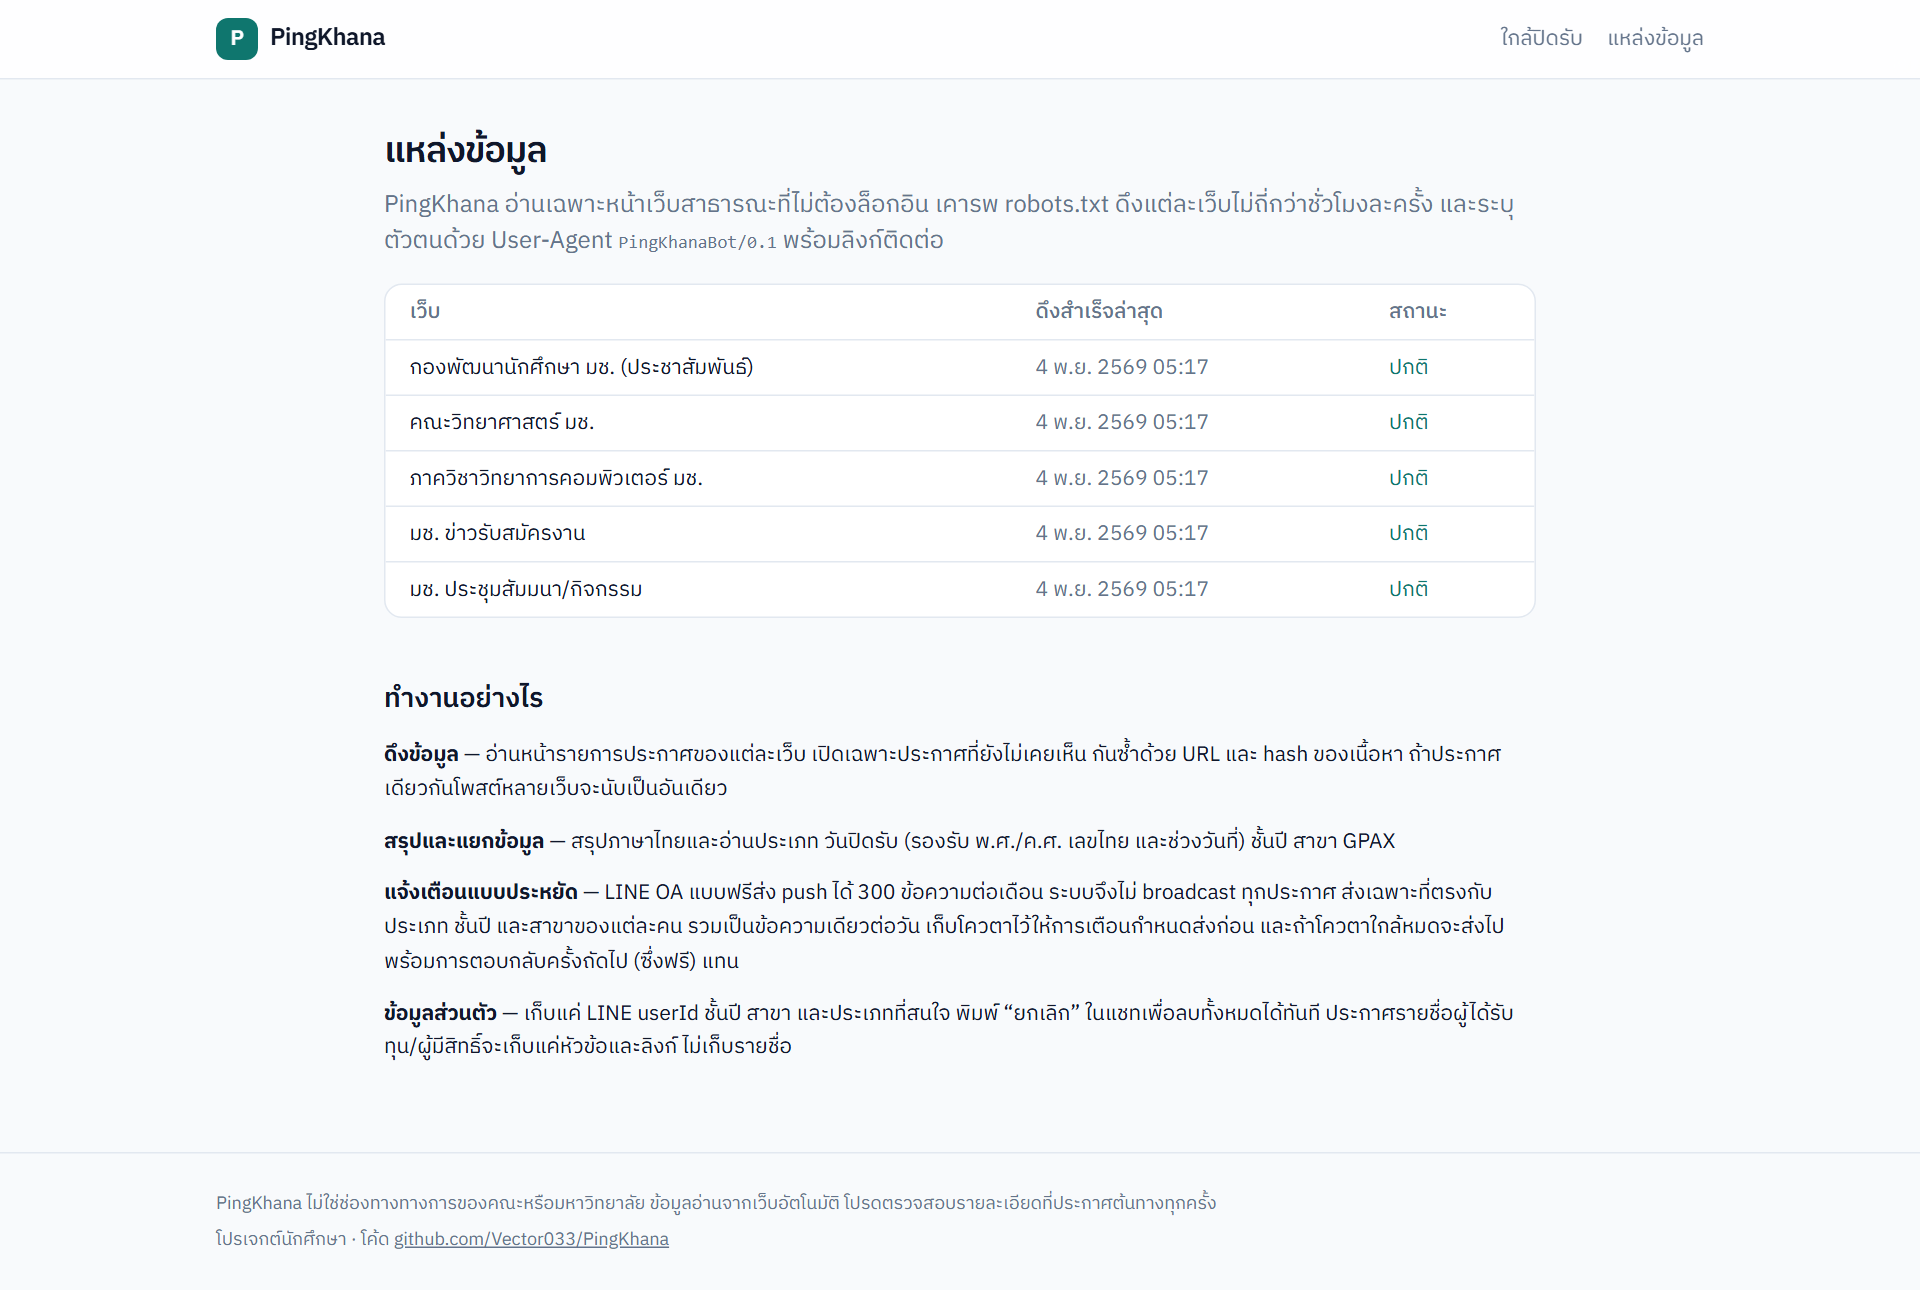
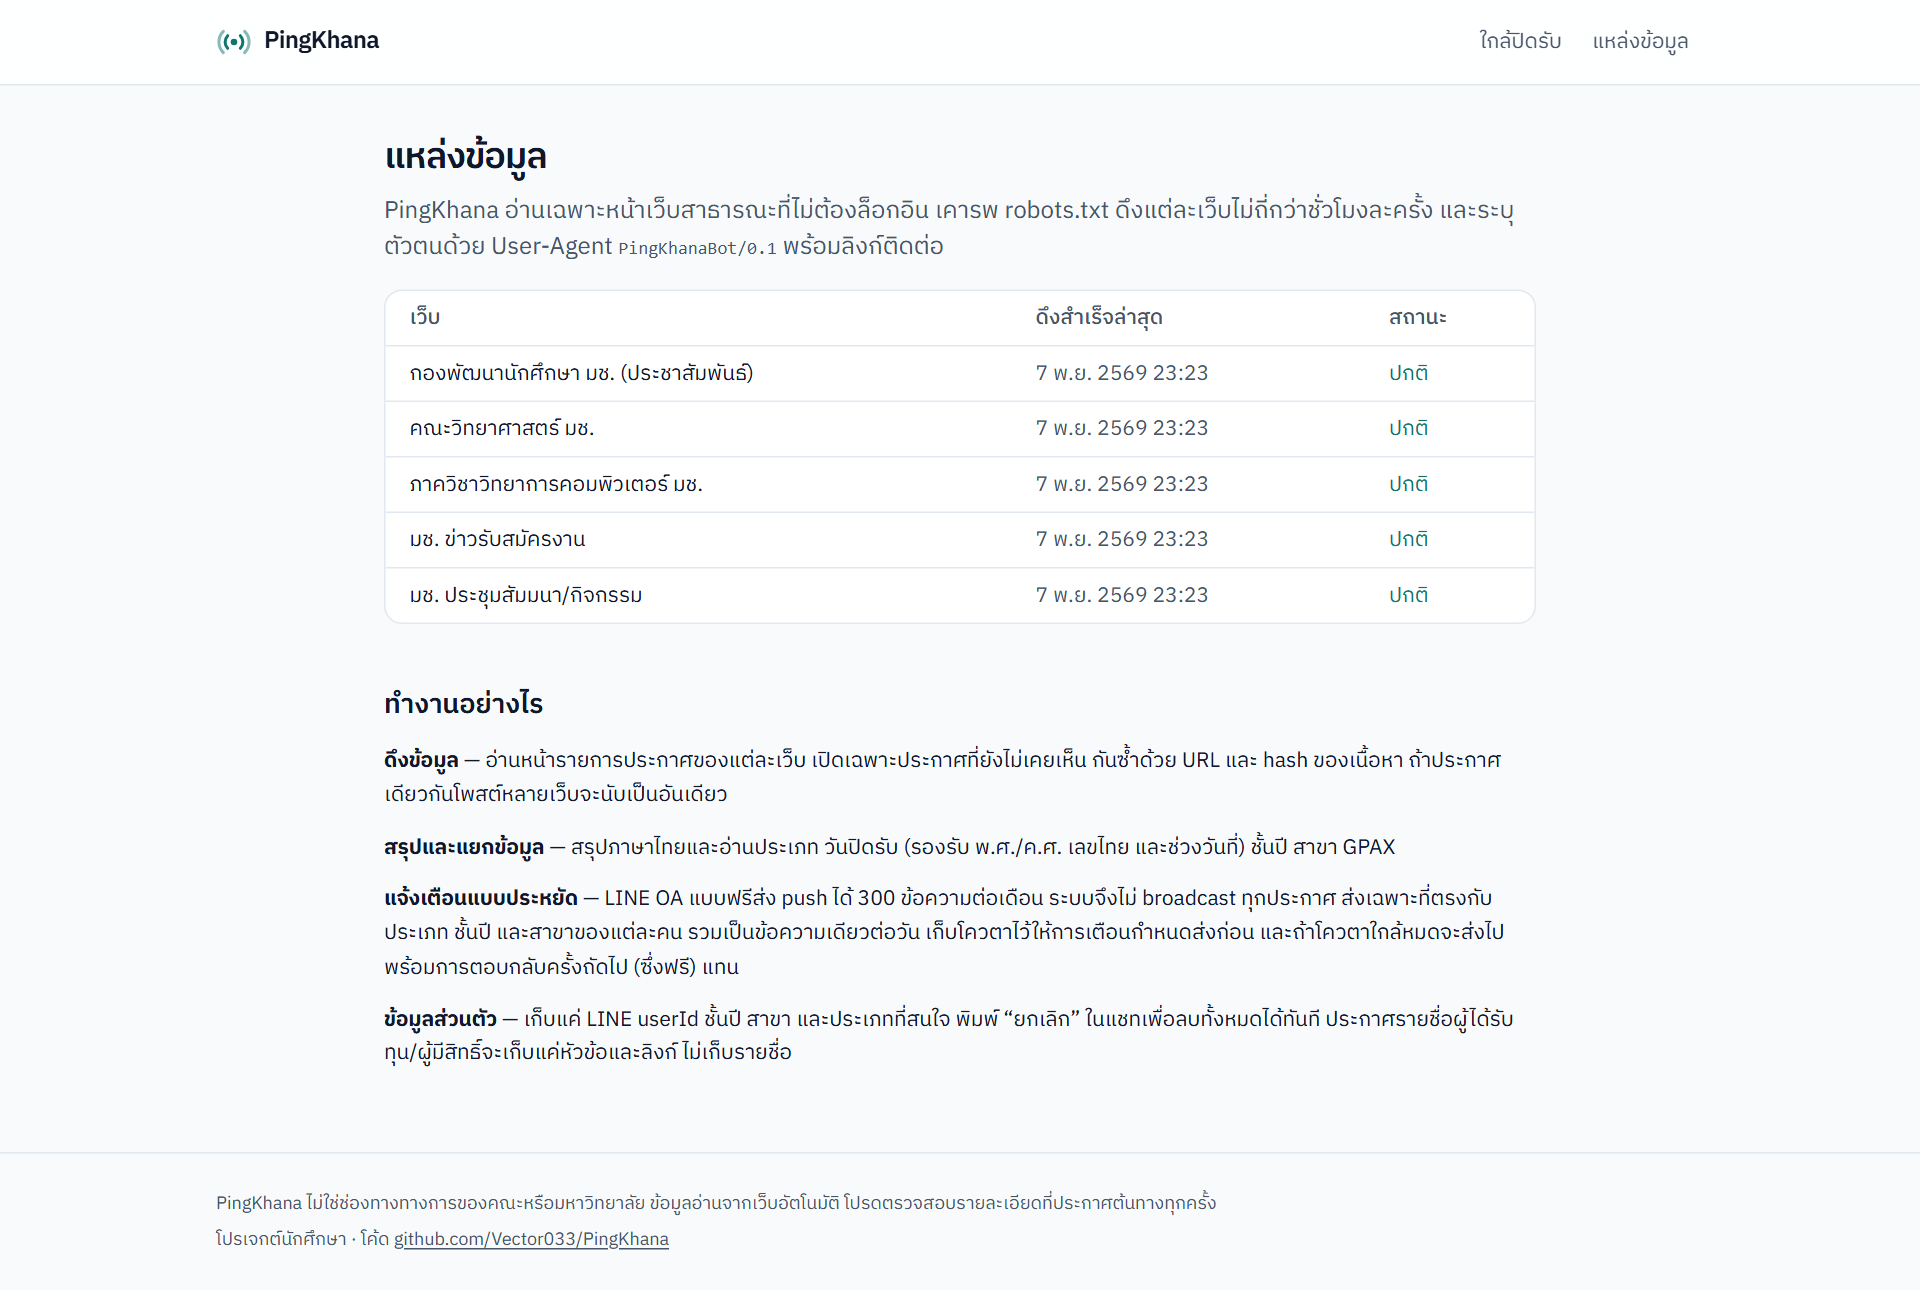
Jobs: ?background=1 for short-timeout schedulers, one run at a time
GitHub's hourly schedule on this repo fires about every 5 hours, so the
Gemini upgrades stalled. cron-job.org can now trigger /jobs/run hourly: it
answers at once and runs after the response; a lock skips overlapping runs and
GET /jobs/last shows the latest result.
Screenshots: live site (light/dark, drawer, phone sheet, sources) and the LINE
chat, carousel and LIFF settings page.

diff --git a/backend/app/main.py b/backend/app/main.py
@@ -1,3 +1,4 @@
+import asyncio
 import json
 import logging
 from datetime import date, datetime, timedelta
@@ -384,6 +385,39 @@ def check_jobs_token(authorization: Annotated[str | None, Header()] = None) -> N
         raise HTTPException(401)
 
 
+# One run at a time: GitHub Actions and cron-job.org may both call in the same hour.
+_job_lock = asyncio.Lock()
+_last_run: dict = {}
+
+
+async def _run_locked() -> dict:
+    async with _job_lock:
+        started = datetime.now(tz=BANGKOK)
+        try:
+            result = await jobs.run_all()
+        except Exception as e:
+            log.exception("scheduled run failed")
+            _last_run.update(started=started.isoformat(), ok=False, error=repr(e)[:200])
+            raise
+        _last_run.update(started=started.isoformat(), ok=True, result=result, error=None)
+        return result
+
+
 @app.post("/jobs/run", dependencies=[Depends(check_jobs_token)])
-async def run_jobs() -> dict:
-    return await jobs.run_all()
+async def run_jobs(tasks: BackgroundTasks, background: Annotated[bool, Query()] = False) -> dict:
+    """Collect, extract and notify.
+
+    `?background=1` answers right away and runs after the response, for schedulers with a short
+    HTTP timeout (cron-job.org allows 30 s). Without it the caller waits for the result.
+    """
+    if _job_lock.locked():
+        return {"status": "already running", "last_run": _last_run}
+    if background:
+        tasks.add_task(_run_locked)
+        return {"status": "started", "last_run": _last_run}
+    return await _run_locked()
+
+
+@app.get("/jobs/last", dependencies=[Depends(check_jobs_token)])
+async def last_job() -> dict:
+    return _last_run

diff --git a/backend/tests/test_api.py b/backend/tests/test_api.py
@@ -89,3 +89,23 @@ async def test_stats_counts_extraction_methods(session, client) -> None:
     await session.commit()
     r = (await client.get("/api/stats")).json()
     assert r["extraction"] == {"gemini": 2, "rules": 1}
+
+
+async def test_jobs_background_mode_returns_at_once(client, monkeypatch) -> None:
+    from app import main
+
+    monkeypatch.setattr(main.get_settings(), "jobs_token", "t")
+    calls = []
+
+    async def fake_run_all() -> dict:
+        calls.append(1)
+        return {"collect": [], "extracted": {}, "notify": {}}
+
+    monkeypatch.setattr(main.jobs, "run_all", fake_run_all)
+    auth = {"Authorization": "Bearer t"}
+    r = await client.post("/jobs/run", params={"background": "1"}, headers=auth)
+    assert r.json()["status"] == "started"
+    # ASGITransport runs background tasks before returning; the result is recorded.
+    assert calls == [1]
+    last = (await client.get("/jobs/last", headers=auth)).json()
+    assert last["ok"] is True

diff --git a/docs/line-setup.md b/docs/line-setup.md
@@ -61,6 +61,10 @@
   - แท็บ Secrets เพิ่ม `JOBS_TOKEN` = ค่าที่ Render สุ่มให้ (ดูได้ในหน้า Environment ของ service)
   - จากนั้น workflow `collect.yml` จะเรียก `/jobs/run` ทุกชั่วโมง กด Run workflow ครั้งแรกเองได้ ครั้งแรกใช้เวลาประมาณ 3–5 นาที
   - แต่ละรอบเรียก Gemini ไม่เกิน 15 ครั้ง ห่างกัน 6 วินาที (ปรับได้ด้วย `GEMINI_MAX_CALLS_PER_RUN`, `GEMINI_MIN_INTERVAL_SECONDS`) ประกาศที่เกินโควตาจะใช้ผลจาก rules ไปก่อน แล้วรอบถัดๆ ไปค่อยอ่านซ้ำด้วย Gemini ผลลัพธ์ของรอบดูได้ใน log ของ workflow (`extracted.gemini_calls`, `upgraded`)
+- **ให้รันทุกชั่วโมงจริง (แนะนำ):** GitHub ไม่รับประกันเวลาของ schedule ใน repo นี้จริงๆ รันห่างกันประมาณ 5 ชั่วโมง จึงควรสร้าง job ใน cron-job.org เพิ่มอีก 1 ตัว
+  - URL `https://<render>/jobs/run?background=1`, Method **POST**, ทุกชั่วโมงที่นาที 17
+  - Advanced → Headers: `Authorization` = `Bearer <JOBS_TOKEN>`
+  - `background=1` ทำให้ API ตอบกลับทันทีแล้วค่อยทำงานต่อเอง เพราะ cron-job.org รอได้แค่ 30 วินาที ถ้ามีรอบที่รันซ้อนกัน ระบบจะข้ามรอบนั้นเอง ดูผลรอบล่าสุดได้ที่ `GET /jobs/last` (ใช้ token เดียวกัน)
 - **กันเครื่องหลับ (แนะนำ):** สมัคร https://cron-job.org (ฟรี) แล้วสร้าง job เรียก `https://<render>/health` ทุก 10 นาที
   - service เดียวที่เปิดตลอดเดือนใช้ประมาณ 744 ชั่วโมง ยังอยู่ในโควตาฟรี 750 ชั่วโมงต่อเดือนของ Render
   - ไม่ใช้ GitHub Actions ทำงานนี้ เพราะ repo เป็น private และนาทีฟรีจะหมด
